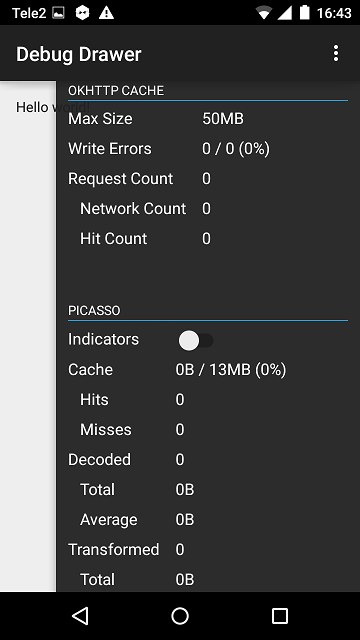
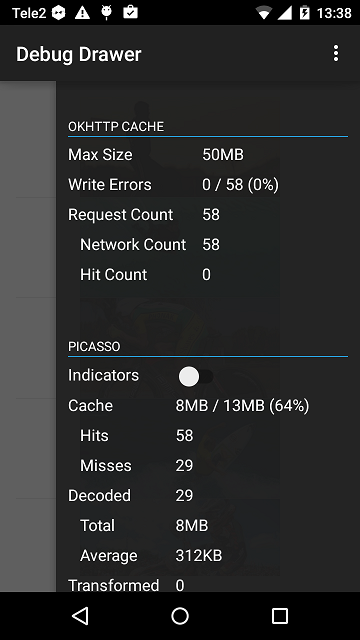
added images list view, fixed scroll

diff --git a/debugdrawer/src/main/java/io/palaima/debugdrawer/view/ScrimInsetsFrameLayout.java b/debugdrawer/src/main/java/io/palaima/debugdrawer/view/ScrimInsetsFrameLayout.java
@@ -1,0 +1,171 @@
+/*
+ * Copyright 2014 Google Inc.
+ *
+ * Licensed under the Apache License, Version 2.0 (the "License");
+ * you may not use this file except in compliance with the License.
+ * You may obtain a copy of the License at
+ *
+ *     http://www.apache.org/licenses/LICENSE-2.0
+ *
+ * Unless required by applicable law or agreed to in writing, software
+ * distributed under the License is distributed on an "AS IS" BASIS,
+ * WITHOUT WARRANTIES OR CONDITIONS OF ANY KIND, either express or implied.
+ * See the License for the specific language governing permissions and
+ * limitations under the License.
+ */
+
+package io.palaima.debugdrawer.view;
+
+
+import android.content.Context;
+import android.content.res.TypedArray;
+import android.graphics.Canvas;
+import android.graphics.Rect;
+import android.graphics.drawable.ColorDrawable;
+import android.graphics.drawable.Drawable;
+import android.support.v4.view.ViewCompat;
+import android.util.AttributeSet;
+import android.widget.FrameLayout;
+
+import io.palaima.debugdrawer.R;
+
+
+/**
+ * A layout that draws something in the insets passed to {@link #fitSystemWindows(Rect)}, i.e. the area above UI chrome
+ * (status and navigation bars, overlay action bars).
+ */
+public class ScrimInsetsFrameLayout extends FrameLayout {
+    private Drawable mInsetForeground;
+
+    private Rect mInsets;
+    private Rect mTempRect = new Rect();
+    private OnInsetsCallback mOnInsetsCallback;
+
+    private boolean mEnabled = true;
+
+    public ScrimInsetsFrameLayout(Context context) {
+        super(context);
+        init(context, null, 0);
+    }
+
+    public ScrimInsetsFrameLayout(Context context, AttributeSet attrs) {
+        super(context, attrs);
+        init(context, attrs, 0);
+    }
+
+    public ScrimInsetsFrameLayout(Context context, AttributeSet attrs, int defStyle) {
+        super(context, attrs, defStyle);
+        init(context, attrs, defStyle);
+    }
+
+    private void init(Context context, AttributeSet attrs, int defStyle) {
+        final TypedArray a = context.obtainStyledAttributes(attrs,
+                R.styleable.ScrimInsetsView, defStyle, 0);
+        if (a == null) {
+            return;
+        }
+        mInsetForeground = a.getDrawable(R.styleable.ScrimInsetsView_siv_insetForeground);
+        a.recycle();
+
+        setWillNotDraw(true);
+    }
+
+    @Override
+    protected boolean fitSystemWindows(Rect insets) {
+        mInsets = new Rect(insets);
+        setWillNotDraw(mInsetForeground == null);
+        ViewCompat.postInvalidateOnAnimation(this);
+        if (mOnInsetsCallback != null) {
+            mOnInsetsCallback.onInsetsChanged(insets);
+        }
+        return true; // consume insets
+    }
+
+    @Override
+    public void draw(Canvas canvas) {
+        super.draw(canvas);
+
+        int width = getWidth();
+        int height = getHeight();
+        if (mInsets != null && mInsetForeground != null) {
+            int sc = canvas.save();
+            canvas.translate(getScrollX(), getScrollY());
+
+            // Top
+            mTempRect.set(0, 0, width, mInsets.top);
+            mInsetForeground.setBounds(mTempRect);
+            mInsetForeground.draw(canvas);
+
+            // Bottom
+            mTempRect.set(0, height - mInsets.bottom, width, height);
+            mInsetForeground.setBounds(mTempRect);
+            mInsetForeground.draw(canvas);
+
+            // Left
+            mTempRect.set(0, mInsets.top, mInsets.left, height - mInsets.bottom);
+            mInsetForeground.setBounds(mTempRect);
+            mInsetForeground.draw(canvas);
+
+            // Right
+            mTempRect.set(width - mInsets.right, mInsets.top, width, height - mInsets.bottom);
+            mInsetForeground.setBounds(mTempRect);
+            mInsetForeground.draw(canvas);
+
+            canvas.restoreToCount(sc);
+        }
+    }
+
+    @Override
+    protected void onAttachedToWindow() {
+        super.onAttachedToWindow();
+        if (mInsetForeground != null) {
+            mInsetForeground.setCallback(this);
+        }
+    }
+
+    @Override
+    protected void onDetachedFromWindow() {
+        super.onDetachedFromWindow();
+        if (mInsetForeground != null) {
+            mInsetForeground.setCallback(null);
+        }
+    }
+
+
+    public boolean isEnabled() {
+        return mEnabled;
+    }
+
+    public void setEnabled(boolean enabled) {
+        this.mEnabled = enabled;
+        //setWillNotDraw(false);
+        invalidate();
+    }
+
+
+    public Drawable getInsetForeground() {
+        return mInsetForeground;
+    }
+
+    public void setInsetForeground(Drawable mInsetForeground) {
+        this.mInsetForeground = mInsetForeground;
+    }
+
+    public void setInsetForeground(int mInsetForegroundColor) {
+        this.mInsetForeground = new ColorDrawable(mInsetForegroundColor);
+    }
+
+    /**
+     * Allows the calling container to specify a callback for custom processing when insets change (i.e. when
+     * {@link #fitSystemWindows(Rect)} is called. This is useful for setting padding on UI elements based on
+     * UI chrome insets (e.g. a Google Map or a ListView). When using with ListView or GridView, remember to set
+     * clipToPadding to false.
+     */
+    public void setOnInsetsCallback(OnInsetsCallback onInsetsCallback) {
+        mOnInsetsCallback = onInsetsCallback;
+    }
+
+    public static interface OnInsetsCallback {
+        public void onInsetsChanged(Rect insets);
+    }
+}

diff --git a/debugdrawer/src/main/java/io/palaima/debugdrawer/DebugDrawer.java b/debugdrawer/src/main/java/io/palaima/debugdrawer/DebugDrawer.java
@@ -27,6 +27,7 @@ import android.view.Gravity;
 import android.view.LayoutInflater;
 import android.view.View;
 import android.view.ViewGroup;
+import android.widget.FrameLayout;
 import android.widget.LinearLayout;
 import android.widget.ScrollView;
 
@@ -35,6 +36,7 @@ import java.util.Collections;
 
 import io.palaima.debugdrawer.module.DrawerModule;
 import io.palaima.debugdrawer.util.UIUtils;
+import io.palaima.debugdrawer.view.ScrimInsetsFrameLayout;
 
 public class DebugDrawer {
 
@@ -141,6 +143,8 @@ public class DebugDrawer {
         private int mSliderBackgroundDrawableRes = -1;
 
         private LinearLayout mContainer;
+
+        private ScrimInsetsFrameLayout mDrawerContentRoot;
 
         /**
          * Pass the activity you use the drawer in ;)
@@ -278,8 +282,34 @@ public class DebugDrawer {
                         "You have to set your layout for this activity with setContentView() first.");
             }
 
+
             mDrawerLayout = (DrawerLayout) mActivity.getLayoutInflater()
-                    .inflate(R.layout.debug_drawer2, mRootView, false);
+                    .inflate(R.layout.debug_drawer, mRootView, false);
+
+            //get the content view
+            View contentView = mRootView.getChildAt(0);
+            boolean alreadyInflated = contentView instanceof DrawerLayout;
+
+            //get the drawer root
+            mDrawerContentRoot = (ScrimInsetsFrameLayout) mDrawerLayout.getChildAt(0);
+
+            //only add the new layout if it wasn't done before
+            if (!alreadyInflated) {
+                // remove the contentView
+                mRootView.removeView(contentView);
+            } else {
+                //if it was already inflated we have to clean up again
+                mRootView.removeAllViews();
+            }
+
+            //create the layoutParams to use for the contentView
+            FrameLayout.LayoutParams layoutParamsContentView = new FrameLayout.LayoutParams(
+                    ViewGroup.LayoutParams.MATCH_PARENT,
+                    ViewGroup.LayoutParams.MATCH_PARENT
+            );
+
+            //add the contentView to the drawer content frameLayout
+            mDrawerContentRoot.addView(contentView, layoutParamsContentView);
 
             //add the drawerLayout to the root
             mRootView.addView(mDrawerLayout, new ViewGroup.LayoutParams(
@@ -323,7 +353,7 @@ public class DebugDrawer {
 
 
             mSliderLayout = (ScrollView) mActivity.getLayoutInflater().inflate(
-                    R.layout.debug_drawer_slider2, mDrawerLayout, false);
+                    R.layout.debug_drawer_slider, mDrawerLayout, false);
             mContainer = (LinearLayout) mSliderLayout.findViewById(R.id.container);
 
             // get the layout params
@@ -359,7 +389,7 @@ public class DebugDrawer {
                 }
             }
 
-            mDrawerLayout.addView(mSliderLayout, 0);
+            mDrawerLayout.addView(mSliderLayout, 1);
 
             //create the result object
             DebugDrawer result = new DebugDrawer(this);

diff --git a/app/src/main/java/io/palaima/debugdrawer/app/ImageAdapter.java b/app/src/main/java/io/palaima/debugdrawer/app/ImageAdapter.java
@@ -1,0 +1,32 @@
+package io.palaima.debugdrawer.app;
+
+import com.squareup.picasso.Picasso;
+
+import android.content.Context;
+import android.view.LayoutInflater;
+import android.view.View;
+import android.view.ViewGroup;
+import android.widget.ArrayAdapter;
+import android.widget.ImageView;
+
+import java.util.List;
+
+public class ImageAdapter extends ArrayAdapter<String> {
+
+    private final Picasso mPicasso;
+
+    public ImageAdapter(Context context, List<String> images, Picasso picasso) {
+        super(context, 0, images);
+        mPicasso = picasso;
+    }
+
+    @Override
+    public View getView(int position, View convertView, ViewGroup parent) {
+        String url = getItem(position);
+        if (convertView == null) {
+            convertView = LayoutInflater.from(getContext()).inflate(R.layout.image_item, parent, false);
+        }
+        mPicasso.load(url).into((ImageView)convertView.findViewById(R.id.image));
+        return convertView;
+    }
+}

diff --git a/app/src/main/java/io/palaima/debugdrawer/app/MainActivity.java b/app/src/main/java/io/palaima/debugdrawer/app/MainActivity.java
@@ -12,9 +12,12 @@ import android.support.v7.app.AppCompatActivity;
 import android.util.Log;
 import android.view.Menu;
 import android.view.MenuItem;
+import android.widget.ListView;
 
 import java.io.File;
 import java.io.IOException;
+import java.util.ArrayList;
+import java.util.List;
 import java.util.concurrent.TimeUnit;
 
 import io.palaima.debugdrawer.DebugDrawer;
@@ -59,6 +62,14 @@ public class MainActivity extends AppCompatActivity {
                     new SettingsModule(this)
             ).build();
         }
+
+        List<String> images = new ArrayList<>();
+        for (int i = 1; i < 30; i++) {
+            images.add("http://lorempixel.com/400/200/sports/" + i);
+        }
+
+        ListView listView = (ListView) findViewById(R.id.image_list);
+        listView.setAdapter(new ImageAdapter(this, images, mPicasso));
     }
 
     @Override

diff --git a/debugdrawer/src/main/java/io/palaima/debugdrawer/module/NetworkModule.java b/debugdrawer/src/main/java/io/palaima/debugdrawer/module/NetworkModule.java
@@ -49,7 +49,7 @@ public class NetworkModule implements DrawerModule {
 
     @Override
     public View onCreateView(LayoutInflater inflater, ViewGroup parent) {
-        View view = inflater.inflate(R.layout.debug_drawer_item_network, parent, false);
+        View view = inflater.inflate(R.layout.debug_drawer_module_network, parent, false);
         mRootView = view;
         mWifi = (Switch) view.findViewById(R.id.debug_network_wifi);
         mMobile = (Switch) view.findViewById(R.id.debug_network_mobile);

diff --git a/debugdrawer/src/main/java/io/palaima/debugdrawer/module/BuildModule.java b/debugdrawer/src/main/java/io/palaima/debugdrawer/module/BuildModule.java
@@ -42,7 +42,7 @@ public class BuildModule implements DrawerModule {
 
     @Override
     public View onCreateView(LayoutInflater inflater, ViewGroup parent) {
-        View view = inflater.inflate(R.layout.debug_drawer_item_build, parent, false);
+        View view = inflater.inflate(R.layout.debug_drawer_module_build, parent, false);
         mRootView = view;
         mCode = (TextView) view.findViewById(R.id.debug_build_code);
         mName = (TextView) view.findViewById(R.id.debug_build_name);

diff --git a/debugdrawer/src/main/java/io/palaima/debugdrawer/module/SettingsModule.java b/debugdrawer/src/main/java/io/palaima/debugdrawer/module/SettingsModule.java
@@ -46,7 +46,7 @@ public class SettingsModule implements DrawerModule, View.OnClickListener {
 
     @Override
     public View onCreateView(LayoutInflater inflater, ViewGroup parent) {
-        View view = inflater.inflate(R.layout.debug_drawer_item_settings, parent, false);
+        View view = inflater.inflate(R.layout.debug_drawer_module_settings, parent, false);
 
         mRootView = view;
         mDeveloper = (ImageView) view.findViewById(R.id.debug_settings_developer);

diff --git a/debugdrawer/src/main/java/io/palaima/debugdrawer/module/DeviceModule.java b/debugdrawer/src/main/java/io/palaima/debugdrawer/module/DeviceModule.java
@@ -81,7 +81,7 @@ public class DeviceModule implements DrawerModule {
 
     @Override
     public View onCreateView(LayoutInflater inflater, ViewGroup parent) {
-        View view = inflater.inflate(R.layout.debug_drawer_item_device, parent, false);
+        View view = inflater.inflate(R.layout.debug_drawer_module_device, parent, false);
 
         mRootView = view;
         mDeviceMakeView = (TextView) view.findViewById(R.id.debug_device_make);
